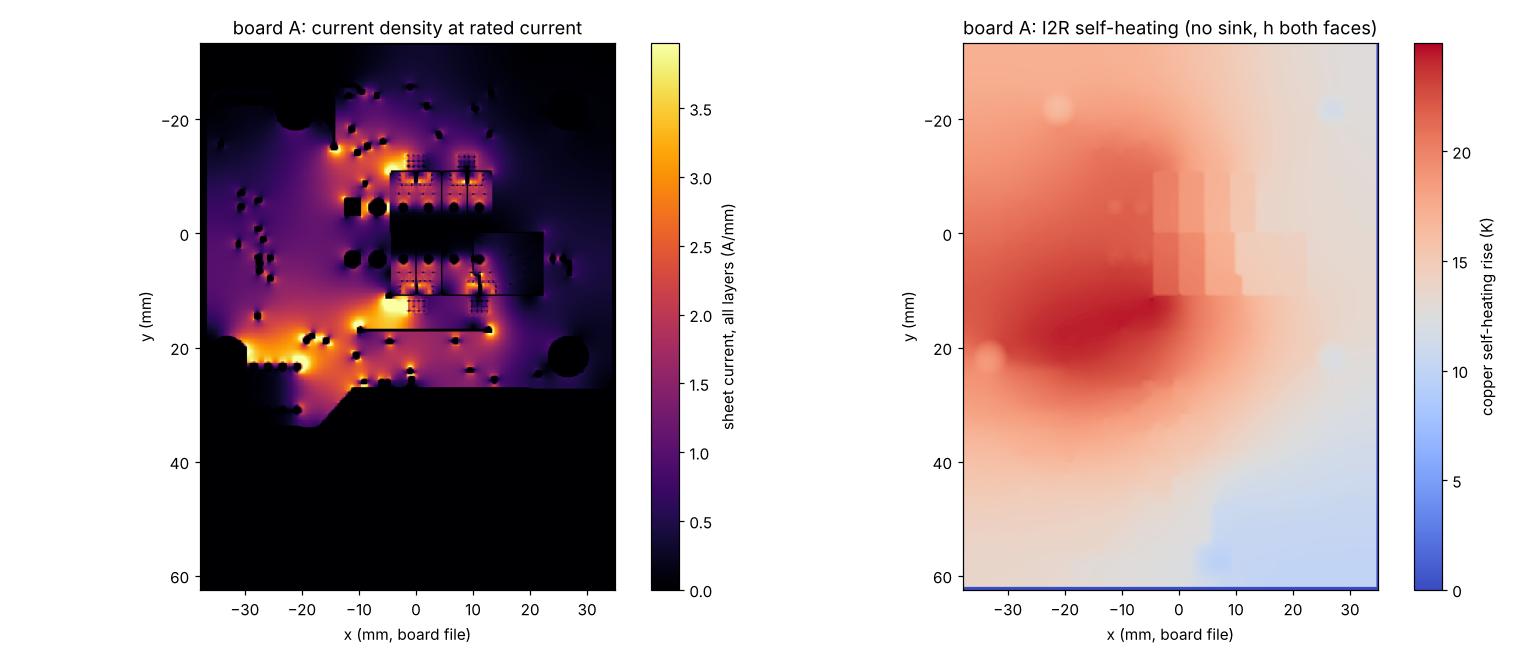
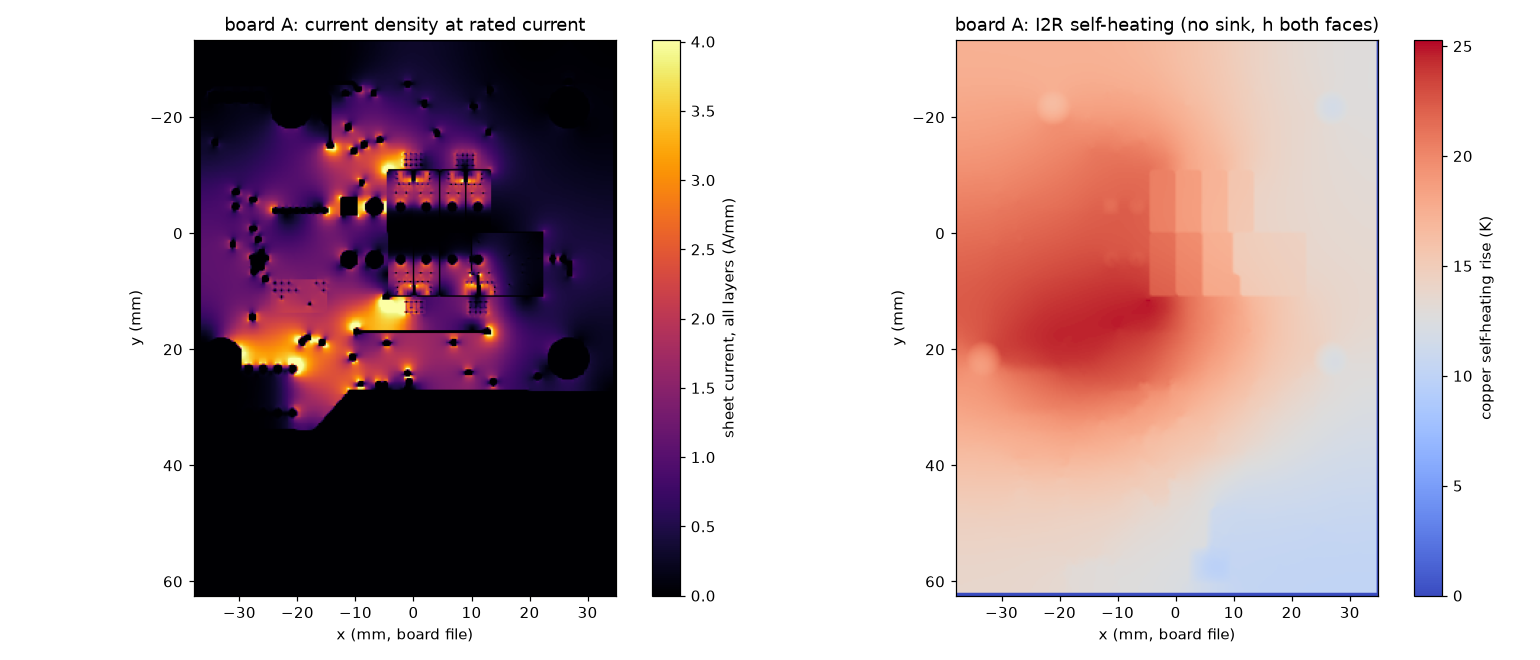
docs(hw): copper / heat plots after the D2 move, verify_cpl D2 note, registry reads
- verify_copper A B --plots (A 42.1 mV / 2.25 W, B 99.4 mV / 13.62 W) and thermal_board_b
  feed150 / hi / lo --res 0.3 (laminate 122.7 / 124.3 / 122.9 C, unchanged): plots refreshed
- verify_cpl (main's neutral user agent): A 116 ok + 4 ok-sym + 1 check, B 169 + 16 + 1 check;
  the check is D2: C20036943 has no EasyEDA footprint (API 404)
- automation.yml board-b-build reads: the build's own stages only (thermal_board_b.py is its
  own entry); the "tools/*_board_b.py" glob made a main merge look like a stale build

Claude-Session: https://claude.ai/code/session_014aA8s3x4bsQmrrj5Psgbbr

diff --git a/docs/pcb-verification.md b/docs/pcb-verification.md
@@ -27,7 +27,7 @@ Results, not decisions: the choices this asks for are listed under "Left" and go
 | `tools/thermal_board_b.py` (hwfix) | board B steady heat on the real copper of all 4 layers + vias: driver and copper I^2R (hot-copper rho), joints, gap pad on the sink pedestals, 4 mm air gap, lid air, J1 terminal + BATT bar; sink temperature from the enclosure model (`docs/enclosure-v2c.md` 4); grid-checked 0.3 / 0.25 mm: 0.2 K | KiCad 9 python + scipy: `python tools/thermal_board_b.py [--case ...] [--air fans|nofan] [--kpad 3] [--res 0.3]` |
 | `tools/board_semdiff.py` (hwfix) | content diff of a rebuilt board against main: footprints / pads / nets, tracks and vias, zones | `python tools/board_semdiff.py <old> <new>` |
 | `tools/verify_layout.py` (new) | CAN / USB pairs, crystal, I2C rise time, decoupling distance, metal at mounting holes, solid joints on power pads, mask dams, fiducials, board B vs stock | KiCad 9 python: `python tools/verify_layout.py --stock-b <stock dingoPDM-Max.kicad_pcb>` |
-| `tools/verify_cpl.py` (new) | the "JLC preview" check: every placed part's LCSC footprint (JLCEDA / EasyEDA official library, https://easyeda.com, https://lceda.cn) turned by the CPL rotation must land on our pads | `python tools/verify_cpl.py` (needs easyeda.com; it answers 403 from DansPC, worked from the cloud session until 2026-11-20, when both got 403) |
+| `tools/verify_cpl.py` (new) | the "JLC preview" check: every placed part's LCSC footprint (JLCEDA / EasyEDA official library, https://easyeda.com, https://lceda.cn) turned by the CPL rotation must land on our pads | `python tools/verify_cpl.py` (needs easyeda.com; since the presim job's neutral user agent it answers from DansPC too) |
 | `tools/d2_tvs.py` (d2tvs) | the D2 DO-218 footprint, its spot and clamp copper (last PCB stage of both builds; stops on a courtyard overlap or fewer than 8 vias per net) | run by `build_board_a.ps1` / `build_board_b.ps1` |
 
 Copper: the boards' stackup says 43.2 um outer / 17.3 um inner; the JLCPCB default order (1 oz outer finished about 35 um, 0.5 oz inner) is run as well (`--outer-um 35 --inner-um 17.5`). Copper weight is Dan's choice (not set by agents).
@@ -61,7 +61,7 @@ Copper: the boards' stackup says 43.2 um outer / 17.3 um inner; the JLCPCB defau
 | Mask dams < 0.10 mm | verify_layout | 0. PASS | same | none |
 | Silk over pads | kicad-cli DRC | 4 silk_over_copper + 2 silk_edge warnings (stock); JLCPCB clips silk off pads | DRC json | none |
 | Fiducials | verify_layout | none; JLCPCB adds rails with fiducials and tooling holes when it panelises. INFO | same | none |
-| CPL polarity / rotation | verify_cpl | was 2 FAIL: U2 SOT-223 (TLV1117LV, C15578) turned 90 deg, J6 JST GH turned 180 deg; centre offsets J5 USB-C 3.7 mm, U15 TSR 2.5 mm. FIXED in `gen_fab_jlcpcb.py` (rotation table checked part by part, new OFFSETS). Now 121 of 121 placements land on their pads. PASS. D2 (new DO-218, LCSC C20036943, CPL rot 270): not checkable on 2026-11-20 (easyeda.com 403 from DansPC and the cloud session, lceda.cn WAF); every other CPL row is unchanged since that pass | `verify_cpl.py`; `board-a-cpl-jlcpcb.csv` | re-run for D2 when easyeda.com answers (BACKLOG) |
+| CPL polarity / rotation | verify_cpl | was 2 FAIL: U2 SOT-223 (TLV1117LV, C15578) turned 90 deg, J6 JST GH turned 180 deg; centre offsets J5 USB-C 3.7 mm, U15 TSR 2.5 mm. FIXED in `gen_fab_jlcpcb.py` (rotation table checked part by part, new OFFSETS). Now 121 of 121 placements land on their pads. PASS. Re-run 2026-11-20 after the D2 move (d2tvs): 116 ok + 4 ok-sym + 1 check: D2 (DO-218, LCSC C20036943, CPL rot 270) has no footprint in the EasyEDA library (the API answers 404), so JLCPCB places it from our CPL (pin 1 = the lead, pad 2 = the tab) | `verify_cpl.py`; `board-a-cpl-jlcpcb.csv` | D2: check the assembler's placement preview at order time (BACKLOG) |
 
 ## Board B (dingoPDM-Max based): 13 PASS, 0 FAIL, 1 WARN, 1 not checkable, 1 info (rows)
 
@@ -77,11 +77,11 @@ Copper: the boards' stackup says 43.2 um outer / 17.3 um inner; the JLCPCB defau
 | +12V feed | verify_copper / thermal_board_b | was FAIL (B.Cu only: 184 A 143 mV / 19.9 W, 150 A 117 mV / 13.3 W; in the sink model 163-165 C at 150 A, limit 130 C). FIXED 2026-11-20 by `tools/pcb_feed_board_b.py` (In2 +12V pour over the board, In1 +12V band over the J1 corridor with GND channels for D14 / D16, B.Cu +12V edge moved into the +3V3 pour, 135 stitching vias; no part moved): 150 A 82 mV / 9.1 W, 184 A 99.9 mV / 13.6 W (20 C copper; verify_copper's no-sink screen: hot spot 59 K over the board mean, was 106 K, screen 10 K: the sink model below is the judge); worst via 4.5 A (fin limit 22 A). Heat model, fans on, gap pad k 3: 150 A laminate max 122.7-124.3 C (3 splits), Tj max 110.5-121.0 C; car load (118 A, car-loads.dummy.md) 109.9 C / Tj 114.2 C. PASS at the 150 A feed limit. Every output at rating (184 A): 157.5 C FAIL (above the feed limit: firmware cap). Fans off (wall): 150 A 138.6-140.1 C FAIL, car load 120.7 C PASS; gap pad k 1 instead of the decided k >= 3 (b3a): 137.4 C FAIL | `thermal_board_b.py --res 0.3` (`--air nofan`) | firmware keeps the 150 A cap; fans-off full load needs the thermal limit (e3c) |
 | Vias | verify_copper | worst 4.9 A in a via under a BTS70012 pad (the EP via array carries 31 A); barrel self-heating 0.5 K (fin model); 28 over the long-trace chart. PASS | same | none |
 | Current sense -> ADC | verify_spice | TLV9004 + PDZ5.1B: BTS70012 reads to 97 A (5 % low; rating 31 A), BTS7004 to 57.5 A (15 A), -40..125 C, both zener corners; at rating 1.104 / 0.900 V, 1.371 / 1.575 V under the 2.475 V fault level (reached at 69.5 / 41.2 A); faults read 3.280 V (+0.805 V); kILIS fw 33700 / 20000 = typical (PR #112). PASS | `verify_spice.py` | none |
-| TVS D2 | verify_spice / board_semdiff / enclosure | was FAIL (5.0SMDJ24CA, as A). FIXED 2026-11-20 (d2tvs): SM8S24CAHM3/I at (36.25, -12.25) rot 180 (the only clean DO-218 site; 66 mm from J1 over the In2 / bottom +12V planes; the 4 nH path is in the decks): same SPICE results as board A, PASS (pulse 1 WARN). Only D2 moved (semdiff vs main: D2, 4 stub tracks, 10 + 14 clamp vias, +12V / GND fills; R68's label turned / moved 0.6 mm off the tab); DRC / ERC / parity equal to main in every type; enclosure v2c rev B: 2.61 mm to the M3 x 8 carrier standoff, 3.04 mm under the G10 carrier, 4.10 mm to an M3 screw; +12V feed (verify_copper B, 184 A) 99.4 mV / 13.62 W (main 99.9 mV / 13.64 W). PASS | same, docs/parts-audit.md 14.3 | done |
+| TVS D2 | verify_spice / board_semdiff / enclosure | was FAIL (5.0SMDJ24CA, as A). FIXED 2026-11-20 (d2tvs): SM8S24CAHM3/I at (36.25, -12.25) rot 180 (the only clean DO-218 site; 66 mm from J1 over the In2 / bottom +12V planes; the 4 nH path is in the decks): same SPICE results as board A, PASS (pulse 1 WARN). Only D2 moved (semdiff vs main: D2, 4 stub tracks, 10 + 14 clamp vias, +12V / GND fills; R68's label turned / moved 0.6 mm off the tab); DRC / ERC / parity equal to main in every type; enclosure v2c rev B: 2.61 mm to the M3 x 8 carrier standoff, 3.04 mm under the G10 carrier, 4.10 mm to an M3 screw; +12V feed (verify_copper B, 184 A) 99.4 mV / 13.62 W (main 99.9 mV / 13.64 W); heat model (thermal_board_b, 150 A, fans, res 0.3) laminate 122.7 / 124.3 / 122.9 C, unchanged; plots refreshed. PASS | same, docs/parts-audit.md 14.3 | done |
 | 3V3 start-up, CAN, USB, crystal, I2C, decoupling | verify_spice / verify_layout | as board A: start-up, CAN (stub 15.8 mm), USB PASS; crystal keep-out, I2C 10k, no cap at U3 VDD, U22 op-amp cap 8.5 mm WARN | same | Left 5 |
 | Metal at mounting holes H1-H6 | verify_layout | FIXED (keep-out stage): +12V +0.61 mm from the sink post, +3V3 +0.23 mm at H1. PASS | same | done |
 | Power pads, mask dams, fiducials | verify_layout | 0 / 0 / none (INFO). PASS | same | none |
-| CPL polarity / rotation | verify_cpl | was 2 FAIL: U2 SOT-223 turned 90 deg, J7 JST GH vertical 180 deg; J2 USB-C 3.7 mm and U13 TSR 2.5 mm off centre: FIXED. Now 186 of 186 (T1-T8: no LCSC part, pad pattern the same at every 90 deg; 8 x 47 nF caps: no library footprint, 2-pad). PASS. D2 (CPL rot 180): not checkable on 2026-11-20 (as board A) | `verify_cpl.py` | re-run for D2 (BACKLOG) |
+| CPL polarity / rotation | verify_cpl | was 2 FAIL: U2 SOT-223 turned 90 deg, J7 JST GH vertical 180 deg; J2 USB-C 3.7 mm and U13 TSR 2.5 mm off centre: FIXED. Now 186 of 186 (T1-T8: no LCSC part, pad pattern the same at every 90 deg; 8 x 47 nF caps: no library footprint, 2-pad). PASS. Re-run 2026-11-20 (d2tvs): 169 ok + 16 ok-sym + 1 check: D2 (CPL rot 180), no EasyEDA footprint (as board A) | `verify_cpl.py` | D2: assembler preview at order time (BACKLOG) |
 | Board B vs stock dingoPDM-Max | verify_layout | 73 parts added (the BTS7004 rail U23-U26 + IS / buffer parts, T1-T8 terminals, H5 / H6, J6 / J7, JP2), 10 removed (test points TP1-TP8, J4, logo G1), 1 moved (logo G2), 7 value changes (each in DECISIONS: TVS, Schottky, LDO, CAN transceiver, MCU suffix, FRAM, op-amp). Power copper: +12V pour 3296 -> 5588 mm2 and vias 85 -> 133; OUT1-4 pours 193 -> 174 mm2 and vias 25 -> 23 per output (changed since stock), checked above. INFO | same | none |
 
 ## Input board: 5 PASS, 0 FAIL, 2 WARN (rows)

diff --git a/docs/parts-audit.md b/docs/parts-audit.md
@@ -569,7 +569,7 @@ Footprint (`tools/d2_tvs.py lib`, dingoPDM:D_DO-218AB_Vishay_SM8S): Vishay doc 9
 - Clamp copper: top +12V pour over the lead pad and under the body, top GND pour over the tab (solid connections; the main GND pour uses thermal spokes), 0.8 / 0.4 mm vias, none in a pad. Surge current (verify_spice, below): load dump B Ri 0.5 Ohm 11.2 A for 400 ms, pulse 2a 32 A for 50 us, pulse 1 10 A for 2 ms; one 0.4 mm via fuses at about 11 A for 0.4 s (Onderdonk, 20 um wall), so >= 10 vias per net (A 12 / 10, B 10 / 14) keep each under about 1.1 A.
 - SPICE after the move (`verify_spice.py`, a 4 nH J1 -> D2 plane path added): load dump B 31-327 W (12-131 J) vs 622 W allowed PASS; 2a 32.4-34.0 V PASS; 3a / 3b absorbed by the caps PASS; pulse 1 -29.1 / -31.6 V WARN (as before). Same as at the old spot to 0.1 V.
 - Enclosure v2c rev B (models folder; revC not published on 2026-11-20), D2 body from our board STEPs: board A 5.83 mm to the heat sink (side), the input deck 20.0 mm above; board B 2.61 mm to the M3 x 8 carrier standoff (side), 3.04 mm under the G10 carrier (insulator), 4.10 mm to an M3 screw. No collision.
-- JLCPCB rotation for D2 (CPL 270 on A, 180 on B, no table offset): not checked against JLC's own footprint: easyeda.com answered 403 from DansPC and the cloud session on 2026-11-20 (BACKLOG).
+- JLCPCB placement for D2 (CPL 270 on A, 180 on B, no table offset; origin = middle of the pattern, pin 1 = lead): `verify_cpl.py` cannot compare it, because C20036943 has no footprint in the EasyEDA library (API 404, 2026-11-20); JLCPCB places such parts from the CPL: check its placement preview at order time (BACKLOG).
 Pulse 1 (-150 V, 10 Ohm, 2 ms), every bidirectional part: -29 to -32 V on +12V vs the PROFETs' -16 V 2-minute reverse rating; their GND-VS path breaks down at 16-30 V (-VS(REV), P_6.4.0.9) and the fitted RGND 47 Ohm (Infineon Table 24, already on every switch, with CVSGND 47 nF) then carries up to about 0.3 A for the pulse (IGND abs max 50 mA static). The data sheets give no pulse rating; a unidirectional TVS (forward clamp about -1 V) would short a reverse-connected battery, so no sourced standard fix keeps reverse-battery survival: WARN kept, noted in BACKLOG.
 
 Sources: TI SBOS833R (TLV900x, Nov 2021); TI SLOS066AE; Microchip DS20001733L (MCP6001/2/4); Nexperia PDZ-B series data sheet (2004-03-22 / NXP); Infineon BTS7008-2EPA Rev 1.20, BTS7004-1EPP, BTS70012-1ESP Rev 1.21 (Tables 3, 24, P_4.1.0.3 / .5 / .9, P_6.4.0.9, P_8.6.0.6 / .7, P_9.6.x); Vishay SM8S10CA thru SM8S85CA doc 98229 (rev 23-Jan-2026), SM8S10AHM3 thru SM8S43AHM3 doc 98647 (rev 16-Jan-2024); Littelfuse 5.0SMDJ data sheet; Panjit load-dump TVS flyer (panjit.com.tw); Panjit SM8H14CAS-AU ~ SM8H48CAS-AU data sheet Rev.00 (2025-05-22, page 5 DO-218AB dimensions / pad layout); Bourns SM8S-Q series data sheet ("Product Dimensions", "Recommended Footprint"); LCSC product pages C2058050, C85392, C557518, C3720850, C2990549, C20036943 (read 2026-11-20); Digi-Key product pages 18869881 (Vishay SM8S24CAHM3/I, listed obsolete) and 9920516 (Bourns SM8S24CA-Q, active, 14,800 in stock), read 2026-11-20.
